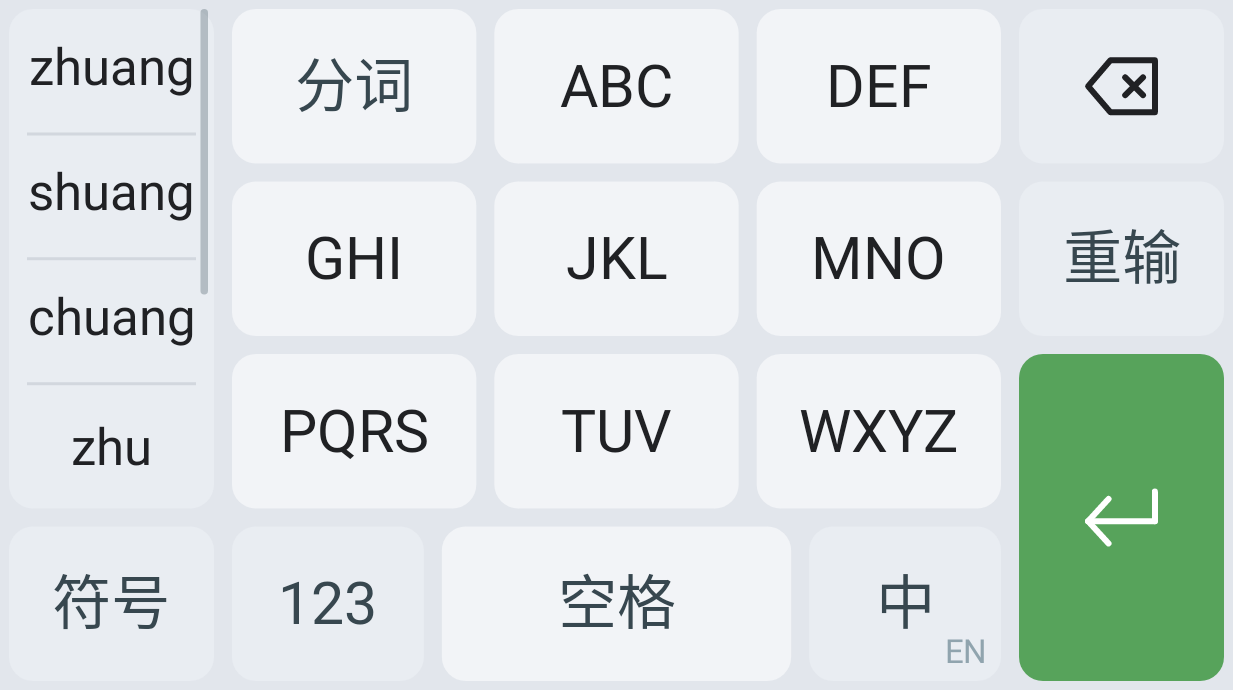
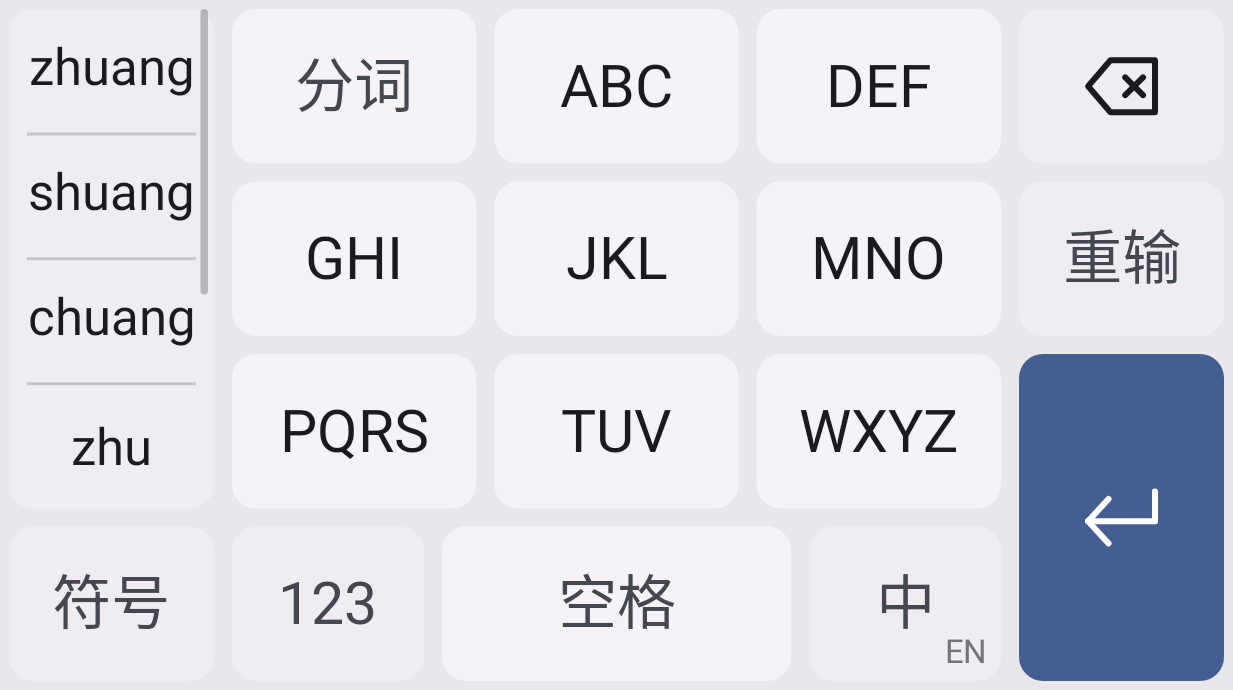
Render the README screenshots from the dynamic palette
The set was drawn with the static green palette, so it showed a colour
the app only falls back to. Draw it from ImePalette.from instead, the
same source a device with dynamic colour uses, and assert the call did
not fall back, so a silent fallback cannot ship as a screenshot.

Changed region(s): [[0.7705, 0.487, 1.0, 1.0]]

diff --git a/app/src/test/java/com/aegis/ime/ime/BilingualScreenshotTest.kt b/app/src/test/java/com/aegis/ime/ime/BilingualScreenshotTest.kt
@@ -41,6 +41,7 @@ import com.aegis.ime.layout.Layouts
 import com.aegis.ime.ui.SettingsHomePage
 import com.aegis.ime.ui.theme.AegisTheme
 import org.junit.Assert.assertEquals
+import org.junit.Assert.assertNotEquals
 import org.junit.Assert.assertTrue
 import org.junit.Test
 import org.junit.runner.RunWith
@@ -59,7 +60,7 @@ class BilingualScreenshotTest {
     private val ctx = RuntimeEnvironment.getApplication()
     private val wPx = ctx.resources.displayMetrics.widthPixels
     private val density = ctx.resources.displayMetrics.density
-    private val pal = ImePalette.STATIC_LIGHT
+    private val pal = ImePalette.from(ctx, dark = false)
 
     private val baseDir = File("build/render/i18n").apply { mkdirs() }
 
@@ -195,6 +196,11 @@ class BilingualScreenshotTest {
     }
 
     @Test fun bilingual_readme_screenshots() {
+        assertNotEquals(
+            "precondition: dynamic colour fell back to the static palette",
+            ImePalette.STATIC_LIGHT,
+            pal,
+        )
         assertEquals("precondition: default locale must resolve English chrome", "Space", ctx.getString(R.string.kbd_space))
         renderSet(
             lang = Lang.EN,
